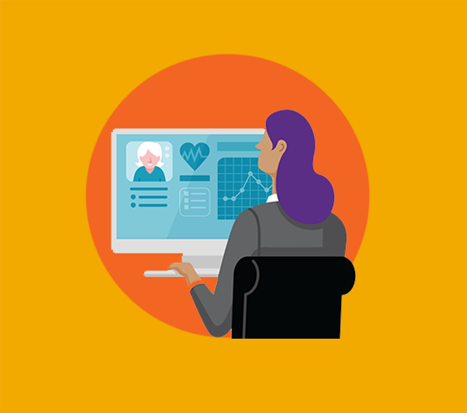
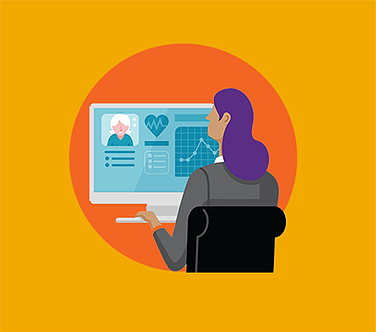
Payer update

diff --git a/src/components/culture.jsx b/src/components/culture.jsx
@@ -20,8 +20,10 @@ export default class Culture extends Component {
             <div className="col-sm-8 text-left" data-aos="fade">
               <p>As payers, you are champions of preventative care. Accessible, nutritious meals result in lower healthcare costs for everyone.</p>
               <p><b>Sign up</b> to learn more or <b>Sign In</b> to access your program dashboard and track subsidies for participation.</p>
-              <img src="images/leveraging_data_cscience-sm.jpg" alt="Image" class="center" style="max-width: 60%; height: auto" /> 
             </div>
+              <div className="col-12 text-center" data-aos="fade">
+                <img src="images/leveraging_data_cscience-sm.jpg" alt="Image" /> 
+              </div>
           </div>
         </div></section>
       <section>
